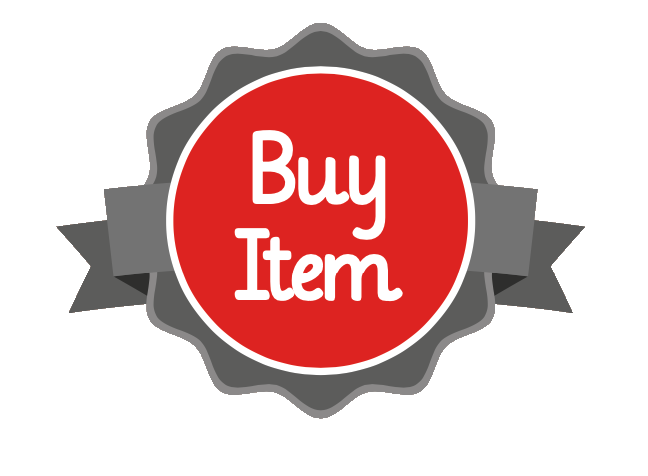
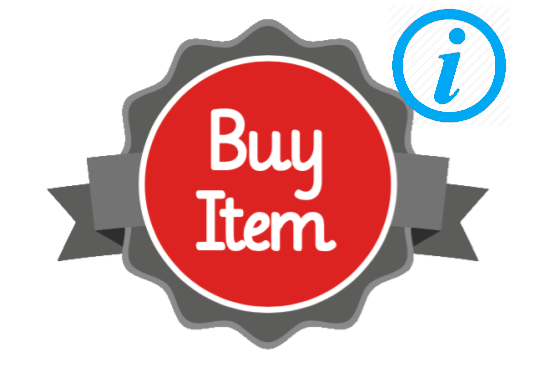
Infoicon på bilderna

diff --git a/src/components/CollectorsPlayerBoard.vue b/src/components/CollectorsPlayerBoard.vue
@@ -64,17 +64,17 @@
             src="images/player_board/treasure.PNG"
             class="topRowIcons"
           />
+          <div class="secretPopup" v-if="playerId == player.pId">
+            <CollectorsCard
+              v-for="(card, index) in player.secret"
+              :key="index"
+              :card="card"
+            />
+          </div>
         </div>
-        <div class="secretPopup" v-if="playerId == player.pId">
-          <CollectorsCard
-            v-for="(card, index) in player.secret"
-            :key="index"
-            :card="card"
-          />
-        </div>
+
         <div id="money">
-          <div class="helper_wrapper">
-            <span class="helper"></span>
+          <div>
             <img
               src="images/player_board/current_money.png"
               class="topRowIcons"
@@ -85,7 +85,7 @@
 
         <div id="income">
           <div>
-            <span class="helper"></span>
+            
             <img
               src="images/player_board/passive_income.png"
               class="topRowIcons"
@@ -110,7 +110,7 @@
       <div id="skills" :style="'background-color:' + player.color">
         <div id="skillsImage">
           <span class="helper"></span>
-          <img id="skillsButton" src="images/buySkillPic/Skillsbutton.png/" />
+          <img id="skillsButton" src="images/buySkillPic/SkillsButtonP.png/" />
           <img id="skillsInfo" src="images/player_board/skills_info.PNG" />
         </div>
 
@@ -219,6 +219,8 @@ export default {
 #chest:hover + .secretPopup {
   display: inline-block;
   position: absolute;
+  top:0;
+  left:0;
 }
 
 .secretPopup {
@@ -250,7 +252,10 @@ export default {
   width: 100%;
 }
 .topRowIcons {
-  max-width: 50%;
+  max-width: 100%;
+}
+#chest{
+  max-width:50%;
 }
 #money p,
 #income p,
@@ -258,11 +263,7 @@ export default {
   margin: 0%;
   margin-top: 0.3em;
 }
-#money img,
-#income img,
-#currentPoints img {
-  vertical-align: middle;
-}
+
 
 #midRow {
   display: grid;

diff --git a/src/components/CollectorsGameBoard.vue b/src/components/CollectorsGameBoard.vue
@@ -142,7 +142,12 @@
     <div class="workBox">
       <!-- Här gör vi work box med köprutor -->
       <div id="buyWorkInfo">
-        <img id="imageWork" src="/images/workPic/imageWork.png" />
+        <img
+          id="imageWork"
+          src="/images/workPic/imageWork.png"
+          style="cursor: pointer"
+          @click="showInfoPopup(labels.workInfoTitle, labels.workInfo)"
+        />
       </div>
       <div id="buyWorkBox1"></div>
 
@@ -262,7 +267,7 @@
         {{ "x" + marketValues.figures }}
       </div>
       <div id="MarketArrow3">
-        <img id="imageMusik" src="/images/marketPic/image_Music.png" />
+        <img id="imageMusik" src="/images/marketPic/image_music.png" />
         {{ "x" + marketValues.music }}
       </div>
       <div id="MarketArrow4">
